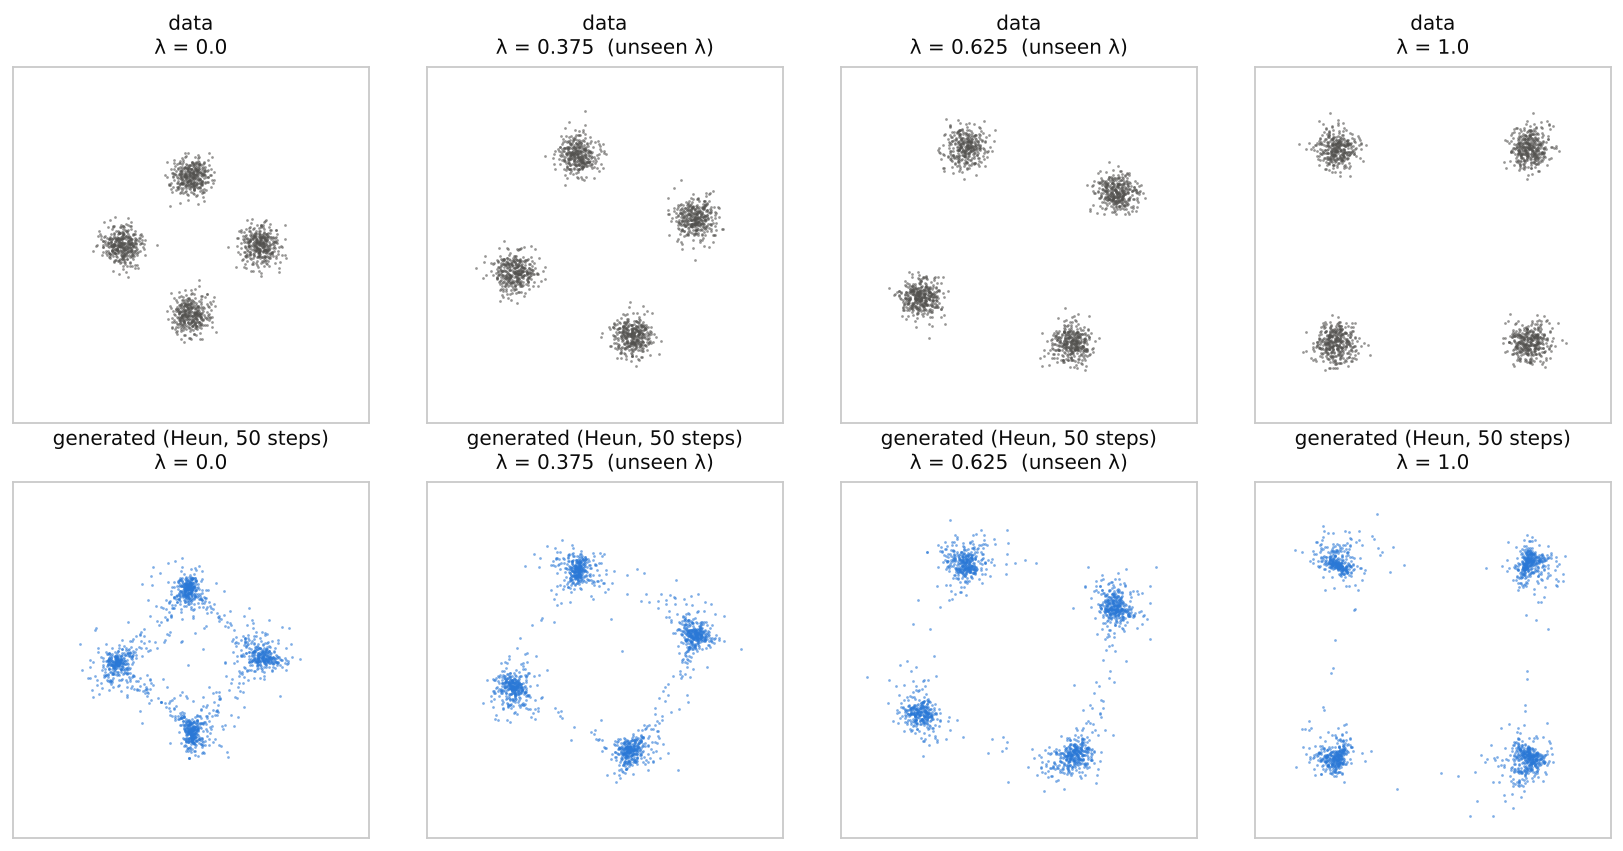
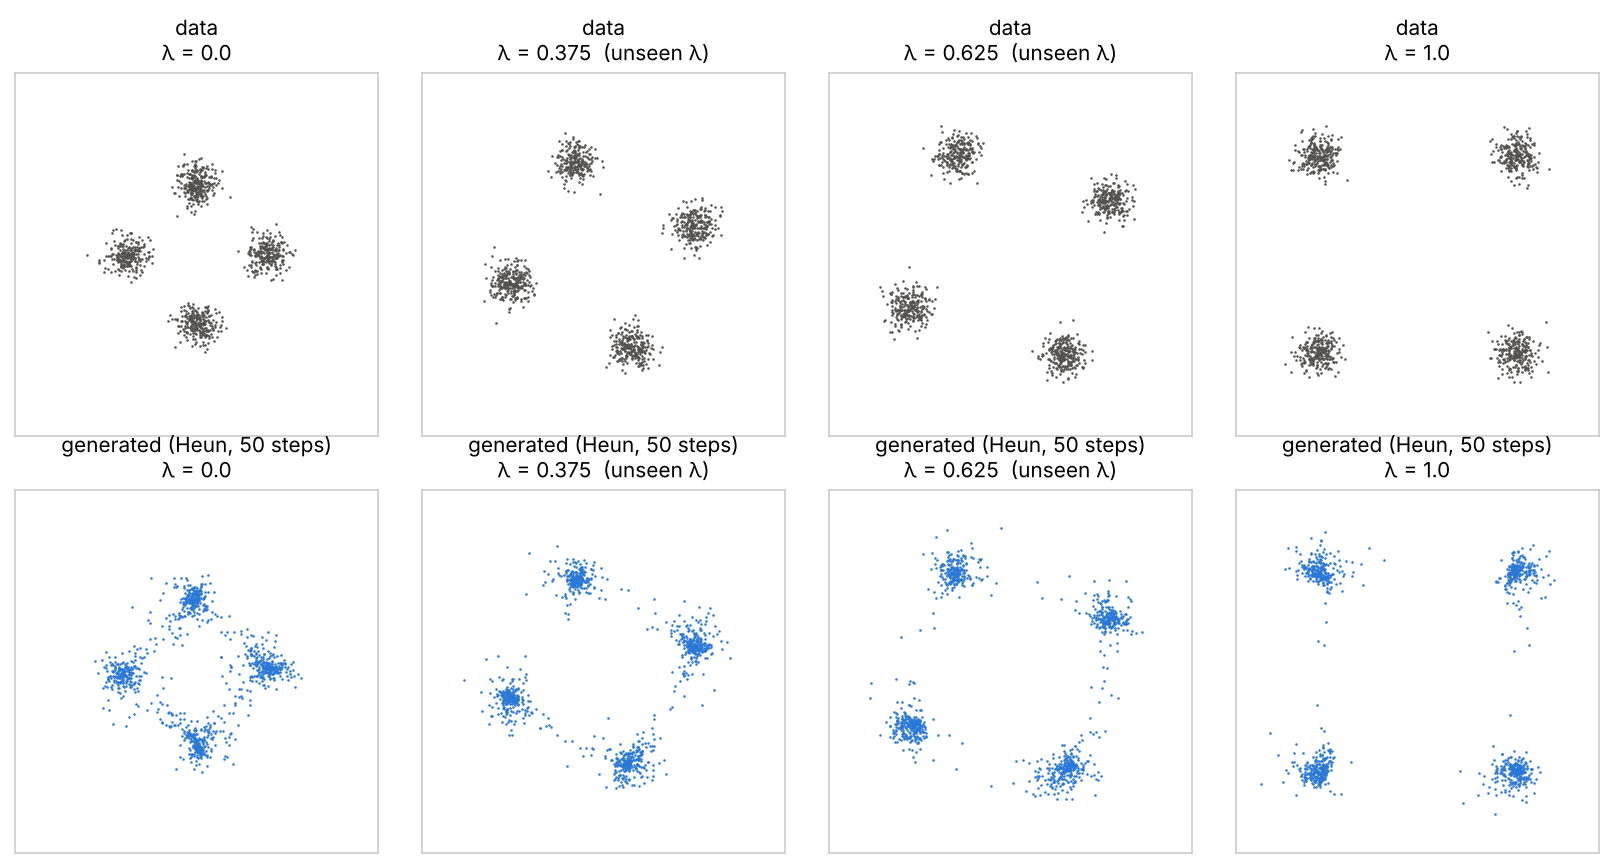
P7: figure script figures_p7.py, figures regenerated
The conditional flow-matching network of the hands-on session is retrained
with the page code (final loss 2.628, as printed); paths use the exact
marginal field.

Claude-Session: https://claude.ai/code/session_019DLE2UupA8nNvHWE1xMPtD

diff --git a/site/prep/p7-generative-models/figures_p7.py b/site/prep/p7-generative-models/figures_p7.py
@@ -1,0 +1,165 @@
+"""Static figures of module p7 (generative models: DDPM, flow matching).
+
+Usage: python3 figures_p7.py [out_dir]     (default: the folder of this script)
+fig-paths uses the exact marginal field of section 4; fig-fm-conditional trains the network of the
+hands-on session 5.6 (same code, seed 0, about 15 s on one CPU thread). Runs in under a minute.
+"""
+import math
+import sys
+from pathlib import Path
+
+import numpy as np
+import torch
+import torch.nn as nn
+
+sys.path.insert(0, str(Path(__file__).resolve().parents[2] / "assets"))
+import figstyle as fs  # noqa: E402
+import matplotlib.pyplot as plt  # noqa: E402
+
+fs.use(10)
+HERE = Path(__file__).resolve().parent
+
+
+def _box(a, lim):
+    a.set_xlim(-lim, lim); a.set_ylim(-lim, lim); a.set_aspect("equal")
+    a.set_xticks([]); a.set_yticks([]); a.grid(False)
+    for sp in a.spines.values():
+        sp.set_visible(True); sp.set_color("#cccccc")
+
+
+# ---------------------------------------------------------------------------------------------
+def fig_noising(out):
+    """Linear schedule of Ho et al. (2020): beta from 1e-4 to 0.02, K = 1000 (example 2.3)."""
+    rng = np.random.default_rng(0)
+    K = 1000
+    abar = np.cumprod(1 - np.linspace(1e-4, 0.02, K))
+    n = 2000
+    centres = np.array([[np.cos(a), np.sin(a)] for a in np.pi / 8 + np.arange(4) * np.pi / 2])
+    y0 = 1.5 * centres[rng.integers(0, 4, n)] + 0.12 * rng.standard_normal((n, 2))
+    eps = rng.standard_normal((n, 2))
+    fig, ax = plt.subplots(1, 5, figsize=(12, 2.9))
+    for a, k in zip(ax, (0, 50, 150, 300, 1000)):
+        ab = 1.0 if k == 0 else abar[k - 1]
+        yk = np.sqrt(ab) * y0 + np.sqrt(1 - ab) * eps
+        a.scatter(yk[:, 0], yk[:, 1], s=1.2, color=fs.C1, alpha=0.6, lw=0)
+        a.set_title(f"k = {k}\n" + ("data" if k == 0 else rf"$\bar\alpha_k$ = {ab:.3f}"))
+        _box(a, 3.4)
+    print("noising: alpha_bar at k = 50, 150, 300, 1000:", ", ".join(f"{abar[k - 1]:.3f}" for k in (50, 150, 300, 1000)))
+    fig.tight_layout()
+    fs.save(fig, out / "fig-noising.png")
+
+
+# ---------------------------------------------------------------------------------------------
+PI, M, S = np.array([0.3, 0.7]), np.array([-2.0, 2.0]), 0.5
+
+
+def _p_t(x, t):
+    var = (1 - t) ** 2 + t ** 2 * S ** 2
+    return sum(p * np.exp(-0.5 * (x - t * m) ** 2 / var) / np.sqrt(2 * np.pi * var) for p, m in zip(PI, M))
+
+
+def _v_marginal(x, t):
+    """Exact marginal field of the linear path (proposition 4.8, same formula as the page)."""
+    var = (1 - t) ** 2 + t ** 2 * S ** 2
+    g = PI * np.exp(-0.5 * (x[:, None] - t * M) ** 2 / var) / np.sqrt(var)
+    w = g / g.sum(1, keepdims=True)
+    vk = M + ((t * S ** 2 - (1 - t)) / var) * (x[:, None] - t * M)
+    return (w * vk).sum(1)
+
+
+def fig_paths(out):
+    rng = np.random.default_rng(1)
+    t = np.linspace(0, 1, 201); x = np.linspace(-4, 4, 401)
+    T, X = np.meshgrid(t, x)
+    dens = _p_t(X, T)
+    fig, ax = plt.subplots(1, 2, figsize=(11, 3.9), sharey=True)
+    for a in ax:
+        a.imshow(dens, extent=(0, 1, -4, 4), origin="lower", aspect="auto", cmap=fs.BLUES, vmax=0.9 * dens.max())
+        a.grid(False); a.set_xlabel("flow time t  (t = 0: noise,  t = 1: data)")
+    n = 16
+    x0 = rng.standard_normal(n)
+    x1 = np.where(rng.random(n) < PI[0], M[0], M[1]) + S * rng.standard_normal(n)
+    for a0, a1 in zip(x0, x1):
+        ax[0].plot([0, 1], [a0, a1], color=fs.C2, lw=1.4)
+    ax[0].set_ylabel("x"); ax[0].set_title("Conditional segments  $x_t = (1-t)\\,x_0 + t\\,x_1$  (they cross)")
+    z = np.sort(np.concatenate([np.linspace(-1.9, 1.9, 14)]))
+    steps, path = 400, [z]
+    h = 1.0 / steps
+    for k in range(steps):                                    # Heun with the exact field
+        v0 = _v_marginal(path[-1], k * h)
+        v1 = _v_marginal(path[-1] + h * v0, (k + 1) * h)
+        path.append(path[-1] + 0.5 * h * (v0 + v1))
+    path = np.array(path)
+    ax[1].plot(np.linspace(0, 1, steps + 1), path, color=fs.INK, lw=1.4)
+    order = bool(np.all(np.diff(path, axis=1) > 0))
+    print(f"paths: marginal trajectories keep their order: {order}")
+    ax[1].set_title("Marginal flow trajectories  $\\dot x = v_t(x)$  (no crossing)")
+    ax[0].set_ylim(-4, 4)
+    fig.tight_layout()
+    fs.save(fig, out / "fig-paths.png")
+
+
+# ---------------------------------------------------------------------------------------------
+def fig_fm_conditional(out):
+    """Code of the hands-on session 5.6 (seed 0), then 1000 samples per lambda."""
+    torch.manual_seed(0)
+    torch.set_num_threads(1)
+
+    def samples(lam, n):
+        lam = torch.as_tensor(lam, dtype=torch.float32).expand(n)
+        k = torch.randint(0, 4, (n,))
+        ang = k * math.pi / 2 + lam * math.pi / 4
+        centre = (1.0 + lam)[:, None] * torch.stack([torch.cos(ang), torch.sin(ang)], 1)
+        return centre + 0.15 * torch.randn(n, 2)
+
+    LAM_TRAIN = torch.tensor([0.0, 0.25, 0.5, 0.75, 1.0])
+
+    class Field(nn.Module):
+        def __init__(self, width=128):
+            super().__init__()
+            self.net = nn.Sequential(nn.Linear(4, width), nn.SiLU(), nn.Linear(width, width), nn.SiLU(),
+                                     nn.Linear(width, width), nn.SiLU(), nn.Linear(width, 2))
+
+        def forward(self, x, t, lam):
+            return self.net(torch.cat([x, t[:, None], lam[:, None]], 1))
+
+    v = Field()
+    opt = torch.optim.Adam(v.parameters(), lr=2e-3)
+    n_iter, B = 3000, 256
+    sched = torch.optim.lr_scheduler.CosineAnnealingLR(opt, n_iter)
+    for _ in range(n_iter):
+        lam = LAM_TRAIN[torch.randint(0, 5, (B,))]
+        x1 = samples(lam, B); x0 = torch.randn(B, 2); t = torch.rand(B)
+        xt = (1 - t[:, None]) * x0 + t[:, None] * x1
+        loss = ((v(xt, t, lam) - (x1 - x0)) ** 2).sum(1).mean()
+        opt.zero_grad(); loss.backward(); opt.step(); sched.step()
+    print(f"fm-conditional: final loss {loss.item():.3f}")
+
+    @torch.no_grad()
+    def sample(lam, n, steps=50):
+        x = torch.randn(n, 2)
+        L = torch.full((n,), float(lam))
+        h = 1.0 / steps
+        for i in range(steps):
+            t = torch.full((n,), i * h)
+            d0 = v(x, t, L)
+            d1 = v(x + h * d0, t + h, L)
+            x = x + 0.5 * h * (d0 + d1)
+        return x
+
+    fig, ax = plt.subplots(2, 4, figsize=(11, 5.8))
+    for j, lam in enumerate((0.0, 0.375, 0.625, 1.0)):
+        tag = f"λ = {lam}" + ("  (unseen λ)" if lam not in (0.0, 1.0) else "")
+        d, g = samples(lam, 1000).numpy(), sample(lam, 1000).numpy()
+        ax[0, j].scatter(d[:, 0], d[:, 1], s=1.5, color=fs.INK2, lw=0)
+        ax[1, j].scatter(g[:, 0], g[:, 1], s=1.5, color=fs.C1, lw=0)
+        ax[0, j].set_title(f"data\n{tag}"); ax[1, j].set_title(f"generated (Heun, 50 steps)\n{tag}")
+        _box(ax[0, j], 2.6); _box(ax[1, j], 2.6)
+    fig.tight_layout()
+    fs.save(fig, out / "fig-fm-conditional.png")
+
+
+if __name__ == "__main__":
+    out = fs.out_dir(__file__, sys.argv)
+    for fn in (fig_noising, fig_paths, fig_fm_conditional):
+        fn(out)
